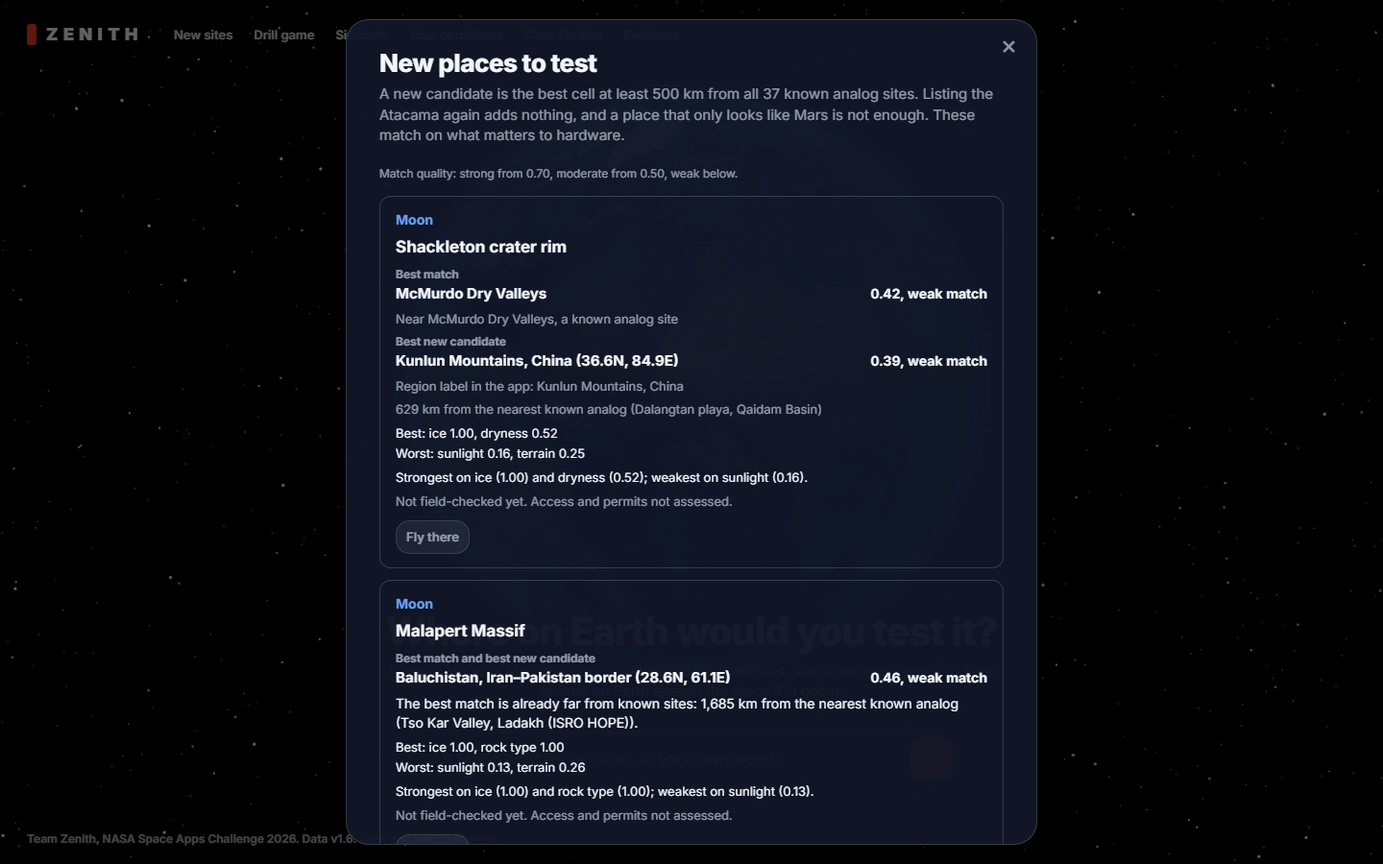
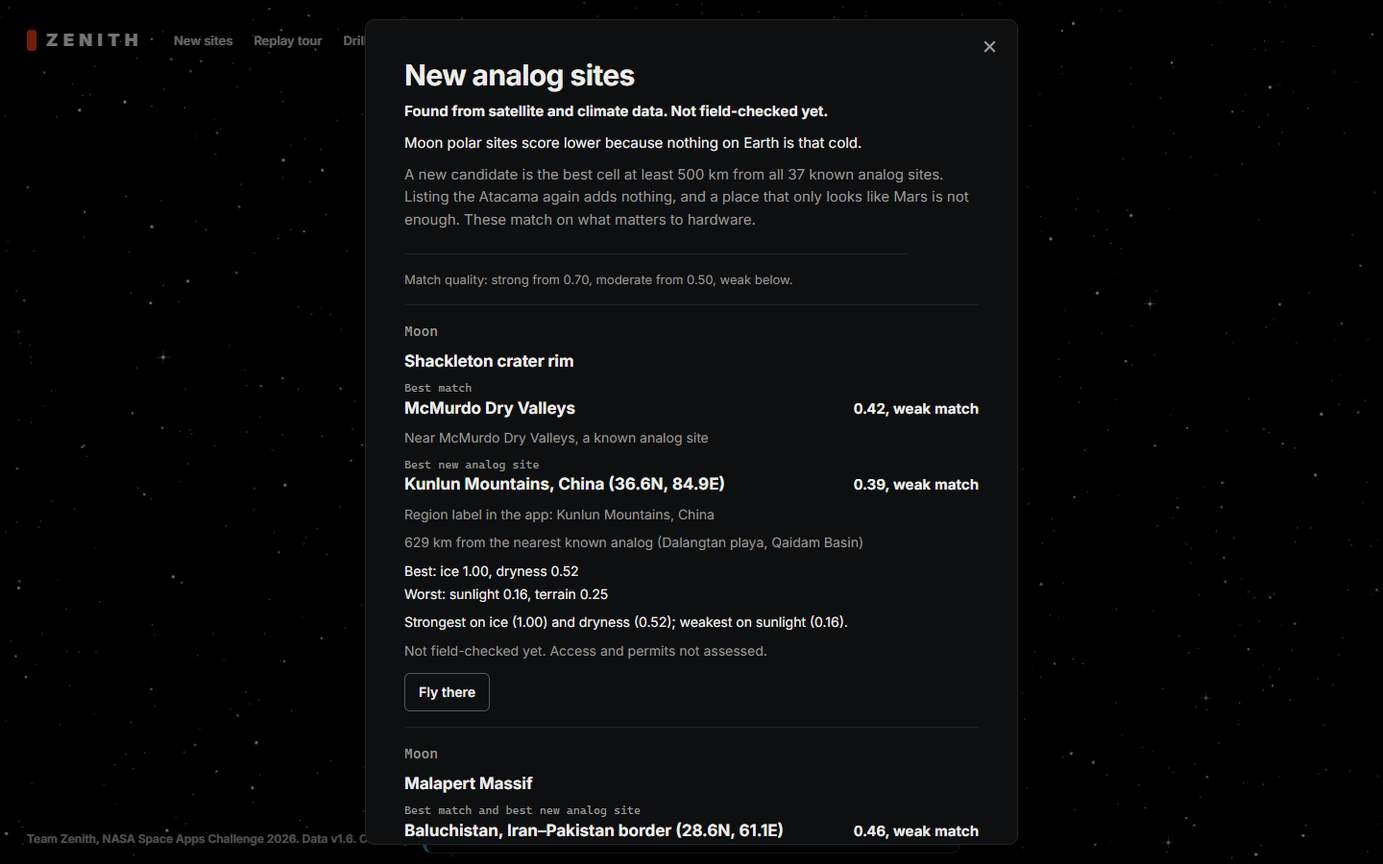
LICENSE, AI use section, first-screen README, new analog site wording
MIT license for the code (data keeps its providers' terms). README first screen
now says what Zenith is, links the app, shows the 7 new analog sites and the
24 vs 10.2 rediscovery result. Screenshot refreshed from the final build.

Changed region(s): [[0.125, 0.0311, 0.75, 0.9956], [0.0312, 0.0311, 0.0938, 0.0622]]

diff --git a/zenith-app/data/new-candidates.js b/zenith-app/data/new-candidates.js
@@ -1,1 +1,1 @@
-window.ZENITH_NEW_CANDIDATES = {"rule":{"new_km":500,"known_sites":37,"weights":"balanced","text":"A new candidate is the best cell at least 500 km from all 37 known analog sites."},"counts":{"land_cells":349031,"bare_ground_scored":29846},"targets":[{"target_id":"shackleton","target_name":"Shackleton crater rim","body":"Moon","best_match":{"name":"McMurdo Dry Valleys","lat":-77.625,"lon":161.375,"score":0.42,"nearest_known_km":20,"nearest_known_name":"McMurdo Dry Valleys","kind":"known-area"},"best_new":{"id":"c214553","name":"Kunlun Mountains, China","readme_name":"Kunlun Mountains, China (36.6N, 84.9E)","lat":36.625,"lon":84.875,"score":0.39,"rank":28,"percentile":99.96,"nearest_known_km":629,"nearest_known_name":"Dalangtan playa, Qaidam Basin","best_dimensions":[{"dim":"ice","label":"Ice","score":1},{"dim":"aridity","label":"Dryness","score":0.52},{"dim":"surface","label":"Surface","score":0.44}],"worst_dimensions":[{"dim":"illumination","label":"Sunlight","score":0.16},{"dim":"terrain","label":"Terrain","score":0.25}],"why":"Strongest on ice (1.00) and dryness (0.52); weakest on sunlight (0.16).","label":"Not field-checked yet. Access and permits not assessed."},"same_place":false},{"target_id":"malapert","target_name":"Malapert Massif","body":"Moon","best_match":{"name":"Baluchistan, Iran–Pakistan border","lat":28.625,"lon":61.125,"score":0.46,"nearest_known_km":1685,"nearest_known_name":"Tso Kar Valley, Ladakh (ISRO HOPE)","kind":"candidate"},"best_new":{"id":"c194739","name":"Baluchistan, Iran–Pakistan border","readme_name":"Baluchistan, Iran–Pakistan border (28.6N, 61.1E)","lat":28.625,"lon":61.125,"score":0.46,"rank":2,"percentile":100,"nearest_known_km":1685,"nearest_known_name":"Tso Kar Valley, Ladakh (ISRO HOPE)","best_dimensions":[{"dim":"ice","label":"Ice","score":1},{"dim":"geology","label":"Rock type","score":1},{"dim":"surface","label":"Surface","score":0.69}],"worst_dimensions":[{"dim":"illumination","label":"Sunlight","score":0.13},{"dim":"terrain","label":"Terrain","score":0.26}],"why":"Strongest on ice (1.00) and rock type (1.00); weakest on sunlight (0.13).","label":"Not field-checked yet. Access and permits not assessed."},"same_place":true},{"target_id":"marius","target_name":"Marius Hills lava-tube pit","body":"Moon","best_match":{"name":"Harrat lava fields, NW Saudi Arabia","lat":27.375,"lon":37.375,"score":0.73,"nearest_known_km":310,"nearest_known_name":"Wadi Rum","kind":"known-region"},"best_new":{"id":"c182268","name":"Sahara, Libya","readme_name":"Southern Libya, north of the Tibesti Mountains (23.1N, 18.6E)","lat":23.125,"lon":18.625,"score":0.71,"rank":4,"percentile":99.99,"nearest_known_km":1609,"nearest_known_name":"Balos Cove, Santorini","best_dimensions":[{"dim":"ice","label":"Ice","score":1},{"dim":"geology","label":"Rock type","score":1},{"dim":"terrain","label":"Terrain","score":0.97}],"worst_dimensions":[{"dim":"thermal","label":"Cold","score":0.23},{"dim":"illumination","label":"Sunlight","score":0.72}],"why":"Strongest on ice (1.00) and rock type (1.00); weakest on cold (0.23), and no place on Earth is that cold.","label":"Not field-checked yet. Access and permits not assessed."},"same_place":false},{"target_id":"arcadia","target_name":"Arcadia Planitia","body":"Mars","best_match":{"name":"Qaidam Basin, China","lat":38.875,"lon":95.125,"score":0.7,"nearest_known_km":248,"nearest_known_name":"Qaidam Basin","kind":"known-region"},"best_new":{"id":"c217679","name":"Southern Taklamakan, Xinjiang, China","readme_name":"Southern Taklamakan, Xinjiang, China (37.9N, 84.6E)","lat":37.875,"lon":84.625,"score":0.69,"rank":3,"percentile":100,"nearest_known_km":618,"nearest_known_name":"Dalangtan playa, Qaidam Basin","best_dimensions":[{"dim":"geology","label":"Rock type","score":1},{"dim":"surface","label":"Surface","score":0.99},{"dim":"terrain","label":"Terrain","score":0.93}],"worst_dimensions":[{"dim":"thermal","label":"Cold","score":0.32},{"dim":"ice","label":"Ice","score":0.37}],"why":"Strongest on rock type (1.00) and surface (0.99); weakest on cold (0.32), and no place on Earth is that cold.","label":"Not field-checked yet. Access and permits not assessed."},"same_place":false},{"target_id":"jezero","target_name":"Jezero crater","body":"Mars","best_match":{"name":"Pampa del Tamarugal, Atacama, Chile","lat":-20.625,"lon":-69.875,"score":0.81,"nearest_known_km":387,"nearest_known_name":"Yungay, Atacama Desert","kind":"known-region"},"best_new":{"id":"c178641","name":"Tibesti, northern Chad","readme_name":"Tibesti Mountains, northern Chad (21.4N, 17.4E)","lat":21.375,"lon":17.375,"score":0.73,"rank":20,"percentile":99.93,"nearest_known_km":1836,"nearest_known_name":"Mount Etna","best_dimensions":[{"dim":"ice","label":"Ice","score":1},{"dim":"geology","label":"Rock type","score":1},{"dim":"terrain","label":"Terrain","score":0.95}],"worst_dimensions":[{"dim":"thermal","label":"Cold","score":0.23},{"dim":"aridity","label":"Dryness","score":0.71}],"why":"Strongest on ice (1.00) and rock type (1.00); weakest on cold (0.23), and no place on Earth is that cold.","label":"Not field-checked yet. Access and permits not assessed."},"same_place":false},{"target_id":"gale","target_name":"Gale crater","body":"Mars","best_match":{"name":"Southern Peru coast","lat":-17.625,"lon":-71.125,"score":0.73,"nearest_known_km":150,"nearest_known_name":"La Joya desert, Arequipa","kind":"known-region"},"best_new":{"id":"c168255","name":"Rub' al Khali, Arabia","readme_name":"Eastern Yemen, south of the Rub' al Khali (15.4N, 50.9E)","lat":15.375,"lon":50.875,"score":0.65,"rank":21,"percentile":99.93,"nearest_known_km":1144,"nearest_known_name":"Dallol, Danakil Depression","best_dimensions":[{"dim":"ice","label":"Ice","score":1},{"dim":"geology","label":"Rock type","score":1},{"dim":"illumination","label":"Sunlight","score":0.83}],"worst_dimensions":[{"dim":"thermal","label":"Cold","score":0.18},{"dim":"aridity","label":"Dryness","score":0.62}],"why":"Strongest on ice (1.00) and rock type (1.00); weakest on cold (0.18), and no place on Earth is that cold.","label":"Not field-checked yet. Access and permits not assessed."},"same_place":false},{"target_id":"meridiani","target_name":"Meridiani Planum","body":"Mars","best_match":{"name":"Atacama Desert, Chile","lat":-22.875,"lon":-69.625,"score":0.76,"nearest_known_km":141,"nearest_known_name":"Yungay, Atacama Desert","kind":"known-area"},"best_new":{"id":"c181267","name":"Sahara, Sudan","readme_name":"Nubian Desert near Abu Simbel and Lake Nasser, southern Egypt (22.6N, 31.9E)","lat":22.625,"lon":31.875,"score":0.68,"rank":4,"percentile":99.99,"nearest_known_km":849,"nearest_known_name":"Wadi Rum","best_dimensions":[{"dim":"aridity","label":"Dryness","score":1},{"dim":"ice","label":"Ice","score":1},{"dim":"geology","label":"Rock type","score":1}],"worst_dimensions":[{"dim":"thermal","label":"Cold","score":0.17},{"dim":"illumination","label":"Sunlight","score":0.54}],"why":"Strongest on ice (1.00) and rock type (1.00); weakest on cold (0.17), and no place on Earth is that cold.","label":"Not field-checked yet. Access and permits not assessed."},"same_place":false}],"overall_top_10":[{"target_id":"jezero","target_name":"Jezero crater","id":"c178641","name":"Tibesti, northern Chad","readme_name":"Tibesti Mountains, northern Chad (21.4N, 17.4E)","lat":21.375,"lon":17.375,"score":0.73,"rank":20,"percentile":99.93,"nearest_known_km":1836,"nearest_known_name":"Mount Etna","best_dimensions":[{"dim":"ice","label":"Ice","score":1},{"dim":"geology","label":"Rock type","score":1},{"dim":"terrain","label":"Terrain","score":0.95}],"worst_dimensions":[{"dim":"thermal","label":"Cold","score":0.23},{"dim":"aridity","label":"Dryness","score":0.71}],"why":"Strongest on ice (1.00) and rock type (1.00); weakest on cold (0.23), and no place on Earth is that cold.","label":"Not field-checked yet. Access and permits not assessed.","also_matches":[{"target_id":"marius","target_name":"Marius Hills lava-tube pit","score":0.71,"rank":4},{"target_id":"gale","target_name":"Gale crater","score":0.64,"rank":29},{"target_id":"meridiani","target_name":"Meridiani Planum","score":0.63,"rank":50},{"target_id":"malapert","target_name":"Malapert Massif","score":0.39,"rank":462},{"target_id":"shackleton","target_name":"Shackleton crater rim","score":0.31,"rank":1489}]},{"target_id":"jezero","target_name":"Jezero crater","id":"c165635","name":"Hadhramaut, Yemen","readme_name":"Hadhramaut, Yemen (13.6N, 46.4E)","lat":13.625,"lon":46.375,"score":0.71,"rank":38,"percentile":99.86,"nearest_known_km":659,"nearest_known_name":"Dallol, Danakil Depression","best_dimensions":[{"dim":"ice","label":"Ice","score":1},{"dim":"geology","label":"Rock type","score":1},{"dim":"terrain","label":"Terrain","score":0.99}],"worst_dimensions":[{"dim":"thermal","label":"Cold","score":0.18},{"dim":"aridity","label":"Dryness","score":0.69}],"why":"Strongest on ice (1.00) and rock type (1.00); weakest on cold (0.18), and no place on Earth is that cold.","label":"Not field-checked yet. Access and permits not assessed.","also_matches":[{"target_id":"gale","target_name":"Gale crater","score":0.65,"rank":22},{"target_id":"marius","target_name":"Marius Hills lava-tube pit","score":0.64,"rank":90},{"target_id":"meridiani","target_name":"Meridiani Planum","score":0.61,"rank":147},{"target_id":"malapert","target_name":"Malapert Massif","score":0.35,"rank":2675},{"target_id":"shackleton","target_name":"Shackleton crater rim","score":0.28,"rank":4431}]},{"target_id":"jezero","target_name":"Jezero crater","id":"c167879","name":"Rub' al Khali, Arabia","readme_name":"Rub' al Khali, Arabia (15.1N, 50.9E)","lat":15.125,"lon":50.875,"score":0.71,"rank":43,"percentile":99.84,"nearest_known_km":1142,"nearest_known_name":"Dallol, Danakil Depression","best_dimensions":[{"dim":"ice","label":"Ice","score":1},{"dim":"geology","label":"Rock type","score":1},{"dim":"terrain","label":"Terrain","score":0.96}],"worst_dimensions":[{"dim":"thermal","label":"Cold","score":0.18},{"dim":"aridity","label":"Dryness","score":0.72}],"why":"Strongest on ice (1.00) and rock type (1.00); weakest on cold (0.18), and no place on Earth is that cold.","label":"Not field-checked yet. Access and permits not assessed.","also_matches":[{"target_id":"gale","target_name":"Gale crater","score":0.65,"rank":21},{"target_id":"meridiani","target_name":"Meridiani Planum","score":0.58,"rank":374},{"target_id":"marius","target_name":"Marius Hills lava-tube pit","score":0.55,"rank":1179},{"target_id":"malapert","target_name":"Malapert Massif","score":0.34,"rank":3391},{"target_id":"shackleton","target_name":"Shackleton crater rim","score":0.27,"rank":5730}]},{"target_id":"jezero","target_name":"Jezero crater","id":"c186564","name":"Harrat lava fields, NW Saudi Arabia","readme_name":"Harrat lava fields, NW Saudi Arabia (25.1N, 37.6E)","lat":25.125,"lon":37.625,"score":0.7,"rank":46,"percentile":99.83,"nearest_known_km":540,"nearest_known_name":"Wadi Rum","best_dimensions":[{"dim":"surface","label":"Surface","score":1},{"dim":"ice","label":"Ice","score":1},{"dim":"geology","label":"Rock type","score":1}],"worst_dimensions":[{"dim":"thermal","label":"Cold","score":0.25},{"dim":"illumination","label":"Sunlight","score":0.66}],"why":"Strongest on ice (1.00) and rock type (1.00); weakest on cold (0.25), and no place on Earth is that cold.","label":"Not field-checked yet. Access and permits not assessed.","also_matches":[{"target_id":"marius","target_name":"Marius Hills lava-tube pit","score":0.69,"rank":7},{"target_id":"meridiani","target_name":"Meridiani Planum","score":0.58,"rank":399},{"target_id":"gale","target_name":"Gale crater","score":0.55,"rank":515},{"target_id":"arcadia","target_name":"Arcadia Planitia","score":0.47,"rank":3398},{"target_id":"malapert","target_name":"Malapert Massif","score":0.39,"rank":357},{"target_id":"shackleton","target_name":"Shackleton crater rim","score":0.32,"rank":1199}]},{"target_id":"jezero","target_name":"Jezero crater","id":"c186561","name":"Eastern Desert, Egypt","readme_name":"Eastern Desert near Marsa Alam, Egypt (25.1N, 34.6E)","lat":25.125,"lon":34.625,"score":0.7,"rank":50,"percentile":99.82,"nearest_known_km":500,"nearest_known_name":"Wadi Rum","best_dimensions":[{"dim":"aridity","label":"Dryness","score":1},{"dim":"ice","label":"Ice","score":1},{"dim":"geology","label":"Rock type","score":1}],"worst_dimensions":[{"dim":"thermal","label":"Cold","score":0.23},{"dim":"terrain","label":"Terrain","score":0.61}],"why":"Strongest on ice (1.00) and rock type (1.00); weakest on cold (0.23), and no place on Earth is that cold.","label":"Not field-checked yet. Access and permits not assessed.","also_matches":[{"target_id":"meridiani","target_name":"Meridiani Planum","score":0.67,"rank":7},{"target_id":"marius","target_name":"Marius Hills lava-tube pit","score":0.61,"rank":193},{"target_id":"gale","target_name":"Gale crater","score":0.59,"rank":129},{"target_id":"arcadia","target_name":"Arcadia Planitia","score":0.52,"rank":1742},{"target_id":"malapert","target_name":"Malapert Massif","score":0.38,"rank":811},{"target_id":"shackleton","target_name":"Shackleton crater rim","score":0.31,"rank":1898}]},{"target_id":"arcadia","target_name":"Arcadia Planitia","id":"c217679","name":"Southern Taklamakan, Xinjiang, China","readme_name":"Southern Taklamakan, Xinjiang, China (37.9N, 84.6E)","lat":37.875,"lon":84.625,"score":0.69,"rank":3,"percentile":100,"nearest_known_km":618,"nearest_known_name":"Dalangtan playa, Qaidam Basin","best_dimensions":[{"dim":"geology","label":"Rock type","score":1},{"dim":"surface","label":"Surface","score":0.99},{"dim":"terrain","label":"Terrain","score":0.93}],"worst_dimensions":[{"dim":"thermal","label":"Cold","score":0.32},{"dim":"ice","label":"Ice","score":0.37}],"why":"Strongest on rock type (1.00) and surface (0.99); weakest on cold (0.32), and no place on Earth is that cold.","label":"Not field-checked yet. Access and permits not assessed.","also_matches":[{"target_id":"marius","target_name":"Marius Hills lava-tube pit","score":0.57,"rank":638},{"target_id":"jezero","target_name":"Jezero crater","score":0.56,"rank":1218},{"target_id":"gale","target_name":"Gale crater","score":0.54,"rank":677},{"target_id":"malapert","target_name":"Malapert Massif","score":0.4,"rank":233},{"target_id":"shackleton","target_name":"Shackleton crater rim","score":0.39,"rank":28}]},{"target_id":"jezero","target_name":"Jezero crater","id":"c188113","name":"Sahara, Algeria","readme_name":"Sahara, Algeria (25.9N, 7.6E)","lat":25.875,"lon":7.625,"score":0.69,"rank":75,"percentile":99.73,"nearest_known_km":1492,"nearest_known_name":"Mount Etna","best_dimensions":[{"dim":"ice","label":"Ice","score":1},{"dim":"geology","label":"Rock type","score":1},{"dim":"terrain","label":"Terrain","score":0.91}],"worst_dimensions":[{"dim":"thermal","label":"Cold","score":0.24},{"dim":"illumination","label":"Sunlight","score":0.62}],"why":"Strongest on ice (1.00) and rock type (1.00); weakest on cold (0.24), and no place on Earth is that cold.","label":"Not field-checked yet. Access and permits not assessed.","also_matches":[{"target_id":"marius","target_name":"Marius Hills lava-tube pit","score":0.68,"rank":13},{"target_id":"meridiani","target_name":"Meridiani Planum","score":0.62,"rank":75},{"target_id":"gale","target_name":"Gale crater","score":0.59,"rank":146},{"target_id":"arcadia","target_name":"Arcadia Planitia","score":0.54,"rank":1183},{"target_id":"malapert","target_name":"Malapert Massif","score":0.38,"rank":946},{"target_id":"shackleton","target_name":"Shackleton crater rim","score":0.3,"rank":2326}]},{"target_id":"meridiani","target_name":"Meridiani Planum","id":"c181267","name":"Sahara, Sudan","readme_name":"Nubian Desert near Abu Simbel and Lake Nasser, southern Egypt (22.6N, 31.9E)","lat":22.625,"lon":31.875,"score":0.68,"rank":4,"percentile":99.99,"nearest_known_km":849,"nearest_known_name":"Wadi Rum","best_dimensions":[{"dim":"aridity","label":"Dryness","score":1},{"dim":"ice","label":"Ice","score":1},{"dim":"geology","label":"Rock type","score":1}],"worst_dimensions":[{"dim":"thermal","label":"Cold","score":0.17},{"dim":"illumination","label":"Sunlight","score":0.54}],"why":"Strongest on ice (1.00) and rock type (1.00); weakest on cold (0.17), and no place on Earth is that cold.","label":"Not field-checked yet. Access and permits not assessed.","also_matches":[{"target_id":"jezero","target_name":"Jezero crater","score":0.65,"rank":212},{"target_id":"marius","target_name":"Marius Hills lava-tube pit","score":0.6,"rank":237},{"target_id":"gale","target_name":"Gale crater","score":0.57,"rank":256},{"target_id":"arcadia","target_name":"Arcadia Planitia","score":0.48,"rank":2902},{"target_id":"malapert","target_name":"Malapert Massif","score":0.34,"rank":3562},{"target_id":"shackleton","target_name":"Shackleton crater rim","score":0.27,"rank":5574}]},{"target_id":"jezero","target_name":"Jezero crater","id":"c188101","name":"Sahara, Algeria","readme_name":"Sahara, Algeria (25.9N, 4.6E)","lat":25.875,"lon":4.625,"score":0.68,"rank":88,"percentile":99.68,"nearest_known_km":1406,"nearest_known_name":"Tabernas Desert","best_dimensions":[{"dim":"ice","label":"Ice","score":1},{"dim":"geology","label":"Rock type","score":1},{"dim":"terrain","label":"Terrain","score":0.95}],"worst_dimensions":[{"dim":"thermal","label":"Cold","score":0.22},{"dim":"illumination","label":"Sunlight","score":0.62}],"why":"Strongest on ice (1.00) and rock type (1.00); weakest on cold (0.22), and no place on Earth is that cold.","label":"Not field-checked yet. Access and permits not assessed.","also_matches":[{"target_id":"meridiani","target_name":"Meridiani Planum","score":0.6,"rank":225},{"target_id":"gale","target_name":"Gale crater","score":0.58,"rank":160},{"target_id":"marius","target_name":"Marius Hills lava-tube pit","score":0.57,"rank":676},{"target_id":"arcadia","target_name":"Arcadia Planitia","score":0.53,"rank":1409},{"target_id":"malapert","target_name":"Malapert Massif","score":0.4,"rank":296},{"target_id":"shackleton","target_name":"Shackleton crater rim","score":0.32,"rank":1126}]},{"target_id":"marius","target_name":"Marius Hills lava-tube pit","id":"c192186","name":"Sahara, Libya","readme_name":"Haruj volcanic field, Libya (27.6N, 17.4E)","lat":27.625,"lon":17.375,"score":0.68,"rank":21,"percentile":99.93,"nearest_known_km":1148,"nearest_known_name":"Mount Etna","best_dimensions":[{"dim":"ice","label":"Ice","score":1},{"dim":"geology","label":"Rock type","score":1},{"dim":"surface","label":"Surface","score":0.86}],"worst_dimensions":[{"dim":"thermal","label":"Cold","score":0.28},{"dim":"terrain","label":"Terrain","score":0.57}],"why":"Strongest on ice (1.00) and rock type (1.00); weakest on cold (0.28), and no place on Earth is that cold.","label":"Not field-checked yet. Access and permits not assessed.","also_matches":[{"target_id":"jezero","target_name":"Jezero crater","score":0.61,"rank":397},{"target_id":"meridiani","target_name":"Meridiani Planum","score":0.6,"rank":204},{"target_id":"arcadia","target_name":"Arcadia Planitia","score":0.53,"rank":1397},{"target_id":"gale","target_name":"Gale crater","score":0.49,"rank":2112},{"target_id":"malapert","target_name":"Malapert Massif","score":0.35,"rank":2524},{"target_id":"shackleton","target_name":"Shackleton crater rim","score":0.28,"rank":3986}]}]};
+window.ZENITH_NEW_CANDIDATES = {"rule":{"new_km":500,"known_sites":37,"weights":"balanced","text":"A new analog site is the best cell at least 500 km from all 37 known analog sites."},"counts":{"land_cells":349031,"bare_ground_scored":29846},"targets":[{"target_id":"shackleton","target_name":"Shackleton crater rim","body":"Moon","best_match":{"name":"McMurdo Dry Valleys","lat":-77.625,"lon":161.375,"score":0.42,"nearest_known_km":20,"nearest_known_name":"McMurdo Dry Valleys","kind":"known-area"},"best_new":{"id":"c214553","name":"Kunlun Mountains, China","readme_name":"Kunlun Mountains, China (36.6N, 84.9E)","lat":36.625,"lon":84.875,"score":0.39,"rank":28,"percentile":99.96,"nearest_known_km":629,"nearest_known_name":"Dalangtan playa, Qaidam Basin","best_dimensions":[{"dim":"ice","label":"Ice","score":1},{"dim":"aridity","label":"Dryness","score":0.52},{"dim":"surface","label":"Surface","score":0.44}],"worst_dimensions":[{"dim":"illumination","label":"Sunlight","score":0.16},{"dim":"terrain","label":"Terrain","score":0.25}],"why":"Strongest on ice (1.00) and dryness (0.52); weakest on sunlight (0.16).","label":"Not field-checked yet. Access and permits not assessed."},"same_place":false},{"target_id":"malapert","target_name":"Malapert Massif","body":"Moon","best_match":{"name":"Baluchistan, Iran–Pakistan border","lat":28.625,"lon":61.125,"score":0.46,"nearest_known_km":1685,"nearest_known_name":"Tso Kar Valley, Ladakh (ISRO HOPE)","kind":"candidate"},"best_new":{"id":"c194739","name":"Baluchistan, Iran–Pakistan border","readme_name":"Baluchistan, Iran–Pakistan border (28.6N, 61.1E)","lat":28.625,"lon":61.125,"score":0.46,"rank":2,"percentile":100,"nearest_known_km":1685,"nearest_known_name":"Tso Kar Valley, Ladakh (ISRO HOPE)","best_dimensions":[{"dim":"ice","label":"Ice","score":1},{"dim":"geology","label":"Rock type","score":1},{"dim":"surface","label":"Surface","score":0.69}],"worst_dimensions":[{"dim":"illumination","label":"Sunlight","score":0.13},{"dim":"terrain","label":"Terrain","score":0.26}],"why":"Strongest on ice (1.00) and rock type (1.00); weakest on sunlight (0.13).","label":"Not field-checked yet. Access and permits not assessed."},"same_place":true},{"target_id":"marius","target_name":"Marius Hills lava-tube pit","body":"Moon","best_match":{"name":"Harrat lava fields, NW Saudi Arabia","lat":27.375,"lon":37.375,"score":0.73,"nearest_known_km":310,"nearest_known_name":"Wadi Rum","kind":"known-region"},"best_new":{"id":"c182268","name":"Sahara, Libya","readme_name":"Southern Libya, north of the Tibesti Mountains (23.1N, 18.6E)","lat":23.125,"lon":18.625,"score":0.71,"rank":4,"percentile":99.99,"nearest_known_km":1609,"nearest_known_name":"Balos Cove, Santorini","best_dimensions":[{"dim":"ice","label":"Ice","score":1},{"dim":"geology","label":"Rock type","score":1},{"dim":"terrain","label":"Terrain","score":0.97}],"worst_dimensions":[{"dim":"thermal","label":"Cold","score":0.23},{"dim":"illumination","label":"Sunlight","score":0.72}],"why":"Strongest on ice (1.00) and rock type (1.00); weakest on cold (0.23), and no place on Earth is that cold.","label":"Not field-checked yet. Access and permits not assessed."},"same_place":false},{"target_id":"arcadia","target_name":"Arcadia Planitia","body":"Mars","best_match":{"name":"Qaidam Basin, China","lat":38.875,"lon":95.125,"score":0.7,"nearest_known_km":248,"nearest_known_name":"Qaidam Basin","kind":"known-region"},"best_new":{"id":"c217679","name":"Southern Taklamakan, Xinjiang, China","readme_name":"Southern Taklamakan, Xinjiang, China (37.9N, 84.6E)","lat":37.875,"lon":84.625,"score":0.69,"rank":3,"percentile":100,"nearest_known_km":618,"nearest_known_name":"Dalangtan playa, Qaidam Basin","best_dimensions":[{"dim":"geology","label":"Rock type","score":1},{"dim":"surface","label":"Surface","score":0.99},{"dim":"terrain","label":"Terrain","score":0.93}],"worst_dimensions":[{"dim":"thermal","label":"Cold","score":0.32},{"dim":"ice","label":"Ice","score":0.37}],"why":"Strongest on rock type (1.00) and surface (0.99); weakest on cold (0.32), and no place on Earth is that cold.","label":"Not field-checked yet. Access and permits not assessed."},"same_place":false},{"target_id":"jezero","target_name":"Jezero crater","body":"Mars","best_match":{"name":"Pampa del Tamarugal, Atacama, Chile","lat":-20.625,"lon":-69.875,"score":0.81,"nearest_known_km":387,"nearest_known_name":"Yungay, Atacama Desert","kind":"known-region"},"best_new":{"id":"c178641","name":"Tibesti, northern Chad","readme_name":"Tibesti Mountains, northern Chad (21.4N, 17.4E)","lat":21.375,"lon":17.375,"score":0.73,"rank":20,"percentile":99.93,"nearest_known_km":1836,"nearest_known_name":"Mount Etna","best_dimensions":[{"dim":"ice","label":"Ice","score":1},{"dim":"geology","label":"Rock type","score":1},{"dim":"terrain","label":"Terrain","score":0.95}],"worst_dimensions":[{"dim":"thermal","label":"Cold","score":0.23},{"dim":"aridity","label":"Dryness","score":0.71}],"why":"Strongest on ice (1.00) and rock type (1.00); weakest on cold (0.23), and no place on Earth is that cold.","label":"Not field-checked yet. Access and permits not assessed."},"same_place":false},{"target_id":"gale","target_name":"Gale crater","body":"Mars","best_match":{"name":"Southern Peru coast","lat":-17.625,"lon":-71.125,"score":0.73,"nearest_known_km":150,"nearest_known_name":"La Joya desert, Arequipa","kind":"known-region"},"best_new":{"id":"c168255","name":"Rub' al Khali, Arabia","readme_name":"Eastern Yemen, south of the Rub' al Khali (15.4N, 50.9E)","lat":15.375,"lon":50.875,"score":0.65,"rank":21,"percentile":99.93,"nearest_known_km":1144,"nearest_known_name":"Dallol, Danakil Depression","best_dimensions":[{"dim":"ice","label":"Ice","score":1},{"dim":"geology","label":"Rock type","score":1},{"dim":"illumination","label":"Sunlight","score":0.83}],"worst_dimensions":[{"dim":"thermal","label":"Cold","score":0.18},{"dim":"aridity","label":"Dryness","score":0.62}],"why":"Strongest on ice (1.00) and rock type (1.00); weakest on cold (0.18), and no place on Earth is that cold.","label":"Not field-checked yet. Access and permits not assessed."},"same_place":false},{"target_id":"meridiani","target_name":"Meridiani Planum","body":"Mars","best_match":{"name":"Atacama Desert, Chile","lat":-22.875,"lon":-69.625,"score":0.76,"nearest_known_km":141,"nearest_known_name":"Yungay, Atacama Desert","kind":"known-area"},"best_new":{"id":"c181267","name":"Sahara, Sudan","readme_name":"Nubian Desert near Abu Simbel and Lake Nasser, southern Egypt (22.6N, 31.9E)","lat":22.625,"lon":31.875,"score":0.68,"rank":4,"percentile":99.99,"nearest_known_km":849,"nearest_known_name":"Wadi Rum","best_dimensions":[{"dim":"aridity","label":"Dryness","score":1},{"dim":"ice","label":"Ice","score":1},{"dim":"geology","label":"Rock type","score":1}],"worst_dimensions":[{"dim":"thermal","label":"Cold","score":0.17},{"dim":"illumination","label":"Sunlight","score":0.54}],"why":"Strongest on ice (1.00) and rock type (1.00); weakest on cold (0.17), and no place on Earth is that cold.","label":"Not field-checked yet. Access and permits not assessed."},"same_place":false}],"overall_top_10":[{"target_id":"jezero","target_name":"Jezero crater","id":"c178641","name":"Tibesti, northern Chad","readme_name":"Tibesti Mountains, northern Chad (21.4N, 17.4E)","lat":21.375,"lon":17.375,"score":0.73,"rank":20,"percentile":99.93,"nearest_known_km":1836,"nearest_known_name":"Mount Etna","best_dimensions":[{"dim":"ice","label":"Ice","score":1},{"dim":"geology","label":"Rock type","score":1},{"dim":"terrain","label":"Terrain","score":0.95}],"worst_dimensions":[{"dim":"thermal","label":"Cold","score":0.23},{"dim":"aridity","label":"Dryness","score":0.71}],"why":"Strongest on ice (1.00) and rock type (1.00); weakest on cold (0.23), and no place on Earth is that cold.","label":"Not field-checked yet. Access and permits not assessed.","also_matches":[{"target_id":"marius","target_name":"Marius Hills lava-tube pit","score":0.71,"rank":4},{"target_id":"gale","target_name":"Gale crater","score":0.64,"rank":29},{"target_id":"meridiani","target_name":"Meridiani Planum","score":0.63,"rank":50},{"target_id":"malapert","target_name":"Malapert Massif","score":0.39,"rank":462},{"target_id":"shackleton","target_name":"Shackleton crater rim","score":0.31,"rank":1489}]},{"target_id":"jezero","target_name":"Jezero crater","id":"c165635","name":"Hadhramaut, Yemen","readme_name":"Hadhramaut, Yemen (13.6N, 46.4E)","lat":13.625,"lon":46.375,"score":0.71,"rank":38,"percentile":99.86,"nearest_known_km":659,"nearest_known_name":"Dallol, Danakil Depression","best_dimensions":[{"dim":"ice","label":"Ice","score":1},{"dim":"geology","label":"Rock type","score":1},{"dim":"terrain","label":"Terrain","score":0.99}],"worst_dimensions":[{"dim":"thermal","label":"Cold","score":0.18},{"dim":"aridity","label":"Dryness","score":0.69}],"why":"Strongest on ice (1.00) and rock type (1.00); weakest on cold (0.18), and no place on Earth is that cold.","label":"Not field-checked yet. Access and permits not assessed.","also_matches":[{"target_id":"gale","target_name":"Gale crater","score":0.65,"rank":22},{"target_id":"marius","target_name":"Marius Hills lava-tube pit","score":0.64,"rank":90},{"target_id":"meridiani","target_name":"Meridiani Planum","score":0.61,"rank":147},{"target_id":"malapert","target_name":"Malapert Massif","score":0.35,"rank":2675},{"target_id":"shackleton","target_name":"Shackleton crater rim","score":0.28,"rank":4431}]},{"target_id":"jezero","target_name":"Jezero crater","id":"c167879","name":"Rub' al Khali, Arabia","readme_name":"Rub' al Khali, Arabia (15.1N, 50.9E)","lat":15.125,"lon":50.875,"score":0.71,"rank":43,"percentile":99.84,"nearest_known_km":1142,"nearest_known_name":"Dallol, Danakil Depression","best_dimensions":[{"dim":"ice","label":"Ice","score":1},{"dim":"geology","label":"Rock type","score":1},{"dim":"terrain","label":"Terrain","score":0.96}],"worst_dimensions":[{"dim":"thermal","label":"Cold","score":0.18},{"dim":"aridity","label":"Dryness","score":0.72}],"why":"Strongest on ice (1.00) and rock type (1.00); weakest on cold (0.18), and no place on Earth is that cold.","label":"Not field-checked yet. Access and permits not assessed.","also_matches":[{"target_id":"gale","target_name":"Gale crater","score":0.65,"rank":21},{"target_id":"meridiani","target_name":"Meridiani Planum","score":0.58,"rank":374},{"target_id":"marius","target_name":"Marius Hills lava-tube pit","score":0.55,"rank":1179},{"target_id":"malapert","target_name":"Malapert Massif","score":0.34,"rank":3391},{"target_id":"shackleton","target_name":"Shackleton crater rim","score":0.27,"rank":5730}]},{"target_id":"jezero","target_name":"Jezero crater","id":"c186564","name":"Harrat lava fields, NW Saudi Arabia","readme_name":"Harrat lava fields, NW Saudi Arabia (25.1N, 37.6E)","lat":25.125,"lon":37.625,"score":0.7,"rank":46,"percentile":99.83,"nearest_known_km":540,"nearest_known_name":"Wadi Rum","best_dimensions":[{"dim":"surface","label":"Surface","score":1},{"dim":"ice","label":"Ice","score":1},{"dim":"geology","label":"Rock type","score":1}],"worst_dimensions":[{"dim":"thermal","label":"Cold","score":0.25},{"dim":"illumination","label":"Sunlight","score":0.66}],"why":"Strongest on ice (1.00) and rock type (1.00); weakest on cold (0.25), and no place on Earth is that cold.","label":"Not field-checked yet. Access and permits not assessed.","also_matches":[{"target_id":"marius","target_name":"Marius Hills lava-tube pit","score":0.69,"rank":7},{"target_id":"meridiani","target_name":"Meridiani Planum","score":0.58,"rank":399},{"target_id":"gale","target_name":"Gale crater","score":0.55,"rank":515},{"target_id":"arcadia","target_name":"Arcadia Planitia","score":0.47,"rank":3398},{"target_id":"malapert","target_name":"Malapert Massif","score":0.39,"rank":357},{"target_id":"shackleton","target_name":"Shackleton crater rim","score":0.32,"rank":1199}]},{"target_id":"jezero","target_name":"Jezero crater","id":"c186561","name":"Eastern Desert, Egypt","readme_name":"Eastern Desert near Marsa Alam, Egypt (25.1N, 34.6E)","lat":25.125,"lon":34.625,"score":0.7,"rank":50,"percentile":99.82,"nearest_known_km":500,"nearest_known_name":"Wadi Rum","best_dimensions":[{"dim":"aridity","label":"Dryness","score":1},{"dim":"ice","label":"Ice","score":1},{"dim":"geology","label":"Rock type","score":1}],"worst_dimensions":[{"dim":"thermal","label":"Cold","score":0.23},{"dim":"terrain","label":"Terrain","score":0.61}],"why":"Strongest on ice (1.00) and rock type (1.00); weakest on cold (0.23), and no place on Earth is that cold.","label":"Not field-checked yet. Access and permits not assessed.","also_matches":[{"target_id":"meridiani","target_name":"Meridiani Planum","score":0.67,"rank":7},{"target_id":"marius","target_name":"Marius Hills lava-tube pit","score":0.61,"rank":193},{"target_id":"gale","target_name":"Gale crater","score":0.59,"rank":129},{"target_id":"arcadia","target_name":"Arcadia Planitia","score":0.52,"rank":1742},{"target_id":"malapert","target_name":"Malapert Massif","score":0.38,"rank":811},{"target_id":"shackleton","target_name":"Shackleton crater rim","score":0.31,"rank":1898}]},{"target_id":"arcadia","target_name":"Arcadia Planitia","id":"c217679","name":"Southern Taklamakan, Xinjiang, China","readme_name":"Southern Taklamakan, Xinjiang, China (37.9N, 84.6E)","lat":37.875,"lon":84.625,"score":0.69,"rank":3,"percentile":100,"nearest_known_km":618,"nearest_known_name":"Dalangtan playa, Qaidam Basin","best_dimensions":[{"dim":"geology","label":"Rock type","score":1},{"dim":"surface","label":"Surface","score":0.99},{"dim":"terrain","label":"Terrain","score":0.93}],"worst_dimensions":[{"dim":"thermal","label":"Cold","score":0.32},{"dim":"ice","label":"Ice","score":0.37}],"why":"Strongest on rock type (1.00) and surface (0.99); weakest on cold (0.32), and no place on Earth is that cold.","label":"Not field-checked yet. Access and permits not assessed.","also_matches":[{"target_id":"marius","target_name":"Marius Hills lava-tube pit","score":0.57,"rank":638},{"target_id":"jezero","target_name":"Jezero crater","score":0.56,"rank":1218},{"target_id":"gale","target_name":"Gale crater","score":0.54,"rank":677},{"target_id":"malapert","target_name":"Malapert Massif","score":0.4,"rank":233},{"target_id":"shackleton","target_name":"Shackleton crater rim","score":0.39,"rank":28}]},{"target_id":"jezero","target_name":"Jezero crater","id":"c188113","name":"Sahara, Algeria","readme_name":"Sahara, Algeria (25.9N, 7.6E)","lat":25.875,"lon":7.625,"score":0.69,"rank":75,"percentile":99.73,"nearest_known_km":1492,"nearest_known_name":"Mount Etna","best_dimensions":[{"dim":"ice","label":"Ice","score":1},{"dim":"geology","label":"Rock type","score":1},{"dim":"terrain","label":"Terrain","score":0.91}],"worst_dimensions":[{"dim":"thermal","label":"Cold","score":0.24},{"dim":"illumination","label":"Sunlight","score":0.62}],"why":"Strongest on ice (1.00) and rock type (1.00); weakest on cold (0.24), and no place on Earth is that cold.","label":"Not field-checked yet. Access and permits not assessed.","also_matches":[{"target_id":"marius","target_name":"Marius Hills lava-tube pit","score":0.68,"rank":13},{"target_id":"meridiani","target_name":"Meridiani Planum","score":0.62,"rank":75},{"target_id":"gale","target_name":"Gale crater","score":0.59,"rank":146},{"target_id":"arcadia","target_name":"Arcadia Planitia","score":0.54,"rank":1183},{"target_id":"malapert","target_name":"Malapert Massif","score":0.38,"rank":946},{"target_id":"shackleton","target_name":"Shackleton crater rim","score":0.3,"rank":2326}]},{"target_id":"meridiani","target_name":"Meridiani Planum","id":"c181267","name":"Sahara, Sudan","readme_name":"Nubian Desert near Abu Simbel and Lake Nasser, southern Egypt (22.6N, 31.9E)","lat":22.625,"lon":31.875,"score":0.68,"rank":4,"percentile":99.99,"nearest_known_km":849,"nearest_known_name":"Wadi Rum","best_dimensions":[{"dim":"aridity","label":"Dryness","score":1},{"dim":"ice","label":"Ice","score":1},{"dim":"geology","label":"Rock type","score":1}],"worst_dimensions":[{"dim":"thermal","label":"Cold","score":0.17},{"dim":"illumination","label":"Sunlight","score":0.54}],"why":"Strongest on ice (1.00) and rock type (1.00); weakest on cold (0.17), and no place on Earth is that cold.","label":"Not field-checked yet. Access and permits not assessed.","also_matches":[{"target_id":"jezero","target_name":"Jezero crater","score":0.65,"rank":212},{"target_id":"marius","target_name":"Marius Hills lava-tube pit","score":0.6,"rank":237},{"target_id":"gale","target_name":"Gale crater","score":0.57,"rank":256},{"target_id":"arcadia","target_name":"Arcadia Planitia","score":0.48,"rank":2902},{"target_id":"malapert","target_name":"Malapert Massif","score":0.34,"rank":3562},{"target_id":"shackleton","target_name":"Shackleton crater rim","score":0.27,"rank":5574}]},{"target_id":"jezero","target_name":"Jezero crater","id":"c188101","name":"Sahara, Algeria","readme_name":"Sahara, Algeria (25.9N, 4.6E)","lat":25.875,"lon":4.625,"score":0.68,"rank":88,"percentile":99.68,"nearest_known_km":1406,"nearest_known_name":"Tabernas Desert","best_dimensions":[{"dim":"ice","label":"Ice","score":1},{"dim":"geology","label":"Rock type","score":1},{"dim":"terrain","label":"Terrain","score":0.95}],"worst_dimensions":[{"dim":"thermal","label":"Cold","score":0.22},{"dim":"illumination","label":"Sunlight","score":0.62}],"why":"Strongest on ice (1.00) and rock type (1.00); weakest on cold (0.22), and no place on Earth is that cold.","label":"Not field-checked yet. Access and permits not assessed.","also_matches":[{"target_id":"meridiani","target_name":"Meridiani Planum","score":0.6,"rank":225},{"target_id":"gale","target_name":"Gale crater","score":0.58,"rank":160},{"target_id":"marius","target_name":"Marius Hills lava-tube pit","score":0.57,"rank":676},{"target_id":"arcadia","target_name":"Arcadia Planitia","score":0.53,"rank":1409},{"target_id":"malapert","target_name":"Malapert Massif","score":0.4,"rank":296},{"target_id":"shackleton","target_name":"Shackleton crater rim","score":0.32,"rank":1126}]},{"target_id":"marius","target_name":"Marius Hills lava-tube pit","id":"c192186","name":"Sahara, Libya","readme_name":"Haruj volcanic field, Libya (27.6N, 17.4E)","lat":27.625,"lon":17.375,"score":0.68,"rank":21,"percentile":99.93,"nearest_known_km":1148,"nearest_known_name":"Mount Etna","best_dimensions":[{"dim":"ice","label":"Ice","score":1},{"dim":"geology","label":"Rock type","score":1},{"dim":"surface","label":"Surface","score":0.86}],"worst_dimensions":[{"dim":"thermal","label":"Cold","score":0.28},{"dim":"terrain","label":"Terrain","score":0.57}],"why":"Strongest on ice (1.00) and rock type (1.00); weakest on cold (0.28), and no place on Earth is that cold.","label":"Not field-checked yet. Access and permits not assessed.","also_matches":[{"target_id":"jezero","target_name":"Jezero crater","score":0.61,"rank":397},{"target_id":"meridiani","target_name":"Meridiani Planum","score":0.6,"rank":204},{"target_id":"arcadia","target_name":"Arcadia Planitia","score":0.53,"rank":1397},{"target_id":"gale","target_name":"Gale crater","score":0.49,"rank":2112},{"target_id":"malapert","target_name":"Malapert Massif","score":0.35,"rank":2524},{"target_id":"shackleton","target_name":"Shackleton crater rim","score":0.28,"rank":3986}]}]};

diff --git a/README.md b/README.md
@@ -2,6 +2,8 @@
 
 Team Zenith, NASA Space Apps Challenge 2026 (Heilbronn). Challenge: *Identify Earth Locations that Analog the Permanent Moon Base Locations and Mars.*
 
+Zenith scores every patch of bare ground on Earth against seven Moon and Mars base sites, using NASA and other open satellite and climate data, and shows where to test a mission first, including places nobody uses yet.
+
 - **Live app:** https://zenith-analog-sites.vercel.app (opens straight to the new analog sites: https://zenith-analog-sites.vercel.app/#sheet=new-sites)
 - **Demo video (30 s):** https://zenith-space-apps.vercel.app/demo.mp4
 - **Drill game:** https://zenith-analog-sites.vercel.app/game/index.html
@@ -23,6 +25,12 @@ Found from satellite and climate data. **Not field-checked yet:** the satellites
 | Kunlun Mountains, China (36.6N, 84.9E) | Shackleton crater rim, Moon | 0.39 | 629 km (Dalangtan playa, Qaidam Basin) |
 
 ![The New analog sites sheet in the app](docs/img/new-sites-sheet.png)
+
+**Does it work?** We never told the engine where agencies test. Of its 175 top sites, 24 landed within 300 km of a known analog site; random bare ground gives about 10 (10.2, Poisson p about 0.00015). Details in [results/validation.md](results/validation.md).
+
+## AI use
+
+Built with AI assistance. The team used Claude (Anthropic) for code, the data and scoring scripts, debugging and writing text. Every score comes from the documented scoring rules in [scoring/DECISIONS_v1_6.md](scoring/DECISIONS_v1_6.md) and the public data listed in [SOURCES.md](SOURCES.md); the team reviewed the results. The new analog sites are model output from satellite and climate data, not field observations.
 
 ## Two traps
 
@@ -124,4 +132,4 @@ Current version: **data v1.6**. Every rescoring gets a new version number. Slide
 - **One scoring method.** Nobody adds weights or scores outside `scoring/`.
 - **Files over 50 MB go on the shared Drive, not git.** Note the Drive link in `SOURCES.md`.
 
-Built with AI assistance (Claude). All data sources are listed in [SOURCES.md](SOURCES.md).
+Built with AI assistance (see AI use above). All data sources are listed in [SOURCES.md](SOURCES.md). Code under the [MIT license](LICENSE).

diff --git a/results/new_candidates.md b/results/new_candidates.md
@@ -1,6 +1,6 @@
 # New candidates
 
-A new candidate is the best cell at least 500 km from all 37 known analog sites.
+A new analog site is the best cell at least 500 km from all 37 known analog sites.
 
 Balanced weights, as the app uses with no mission picked. Same rule and code as the app (NEW_KM = 500 in zenith-app/js/bridge.js). Regenerate with `node scoring/new_candidates.mjs`.
 
